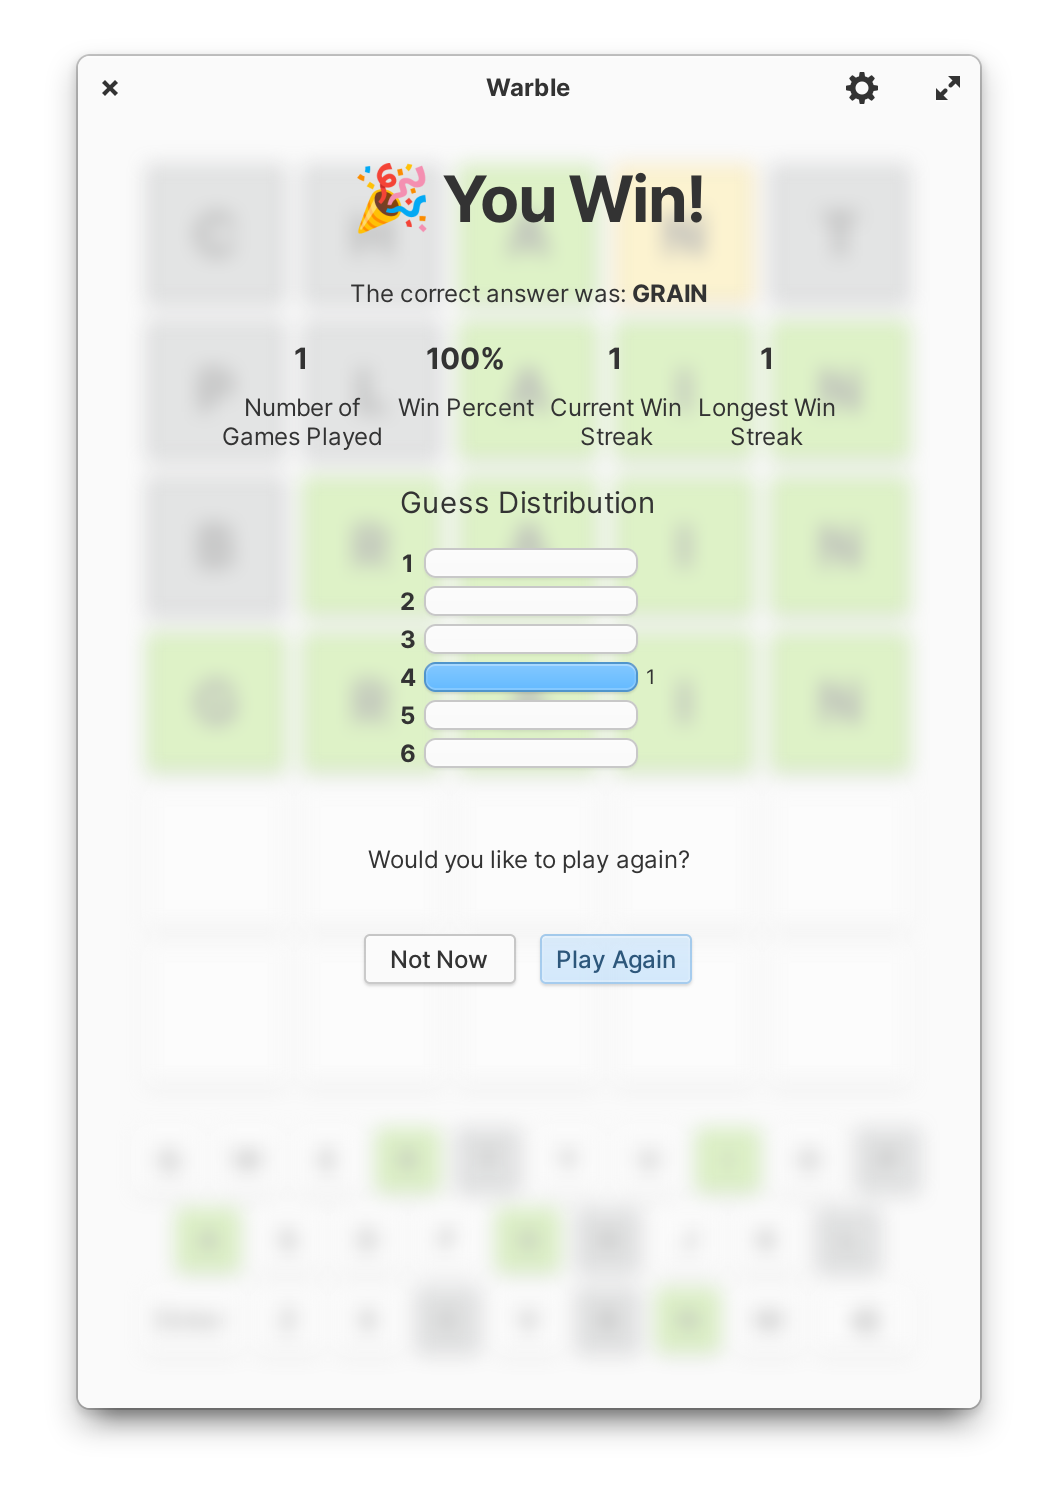
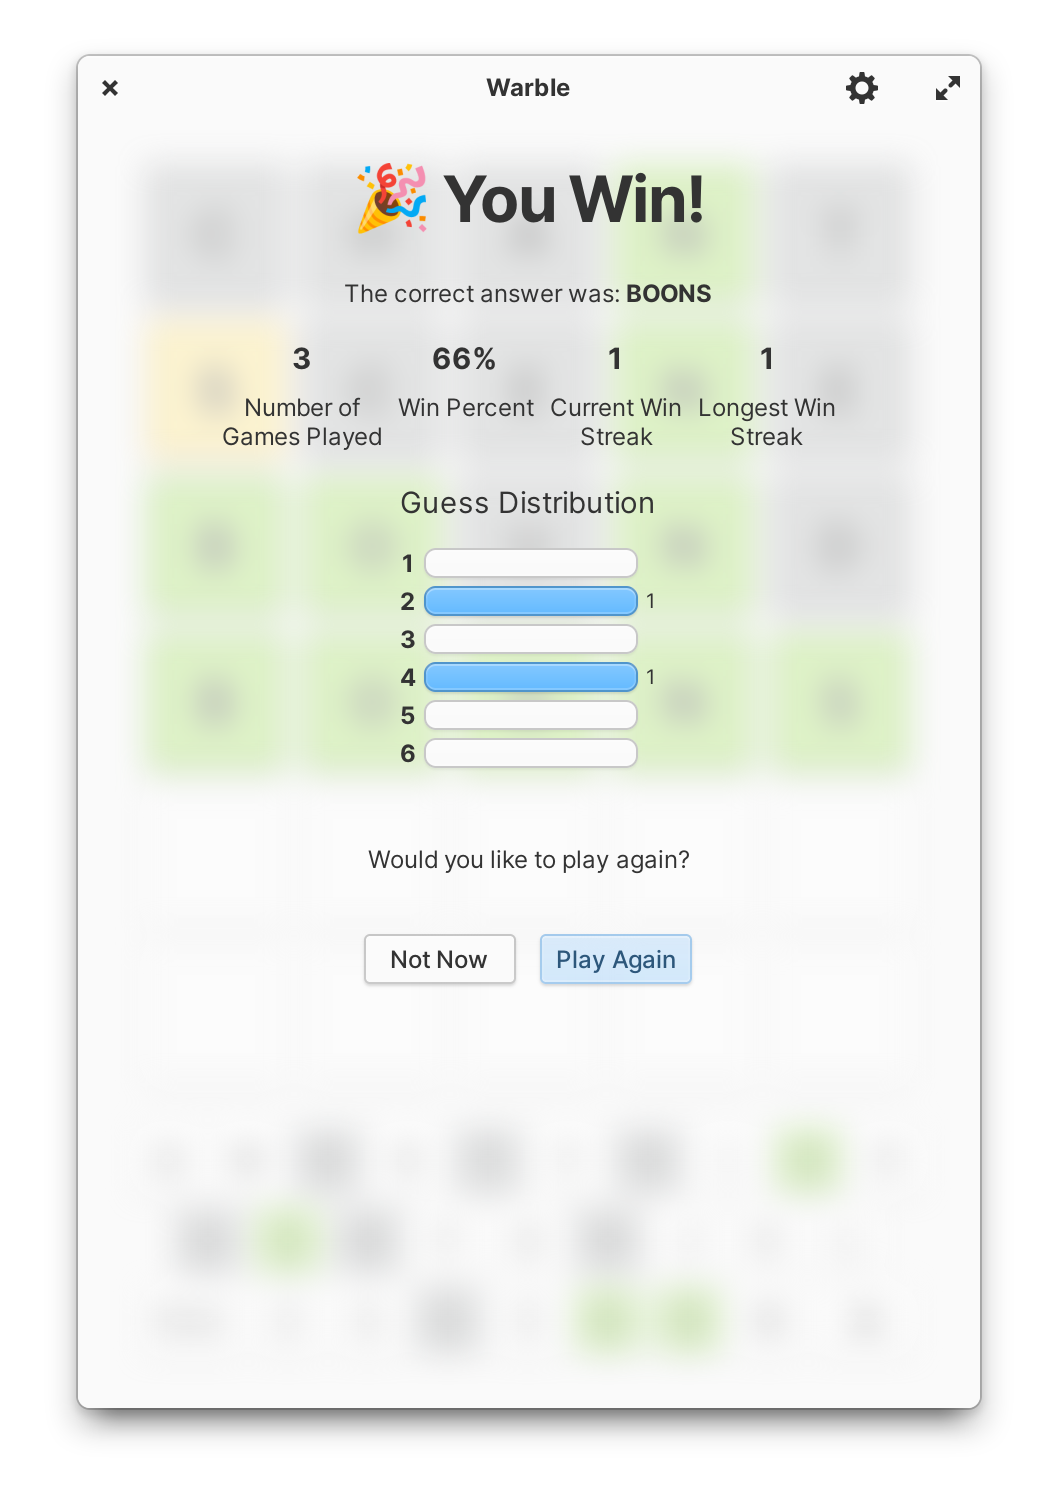
Increase blur radius

diff --git a/data/stylesheet/warble-default.css b/data/stylesheet/warble-default.css
@@ -15,7 +15,7 @@
 .faded {
     transition-property: opacity, filter;
     transition-duration: 0.5s;
-    filter: blur(5px);
+    filter: blur(8px);
     opacity: 0.3;
 }
 
